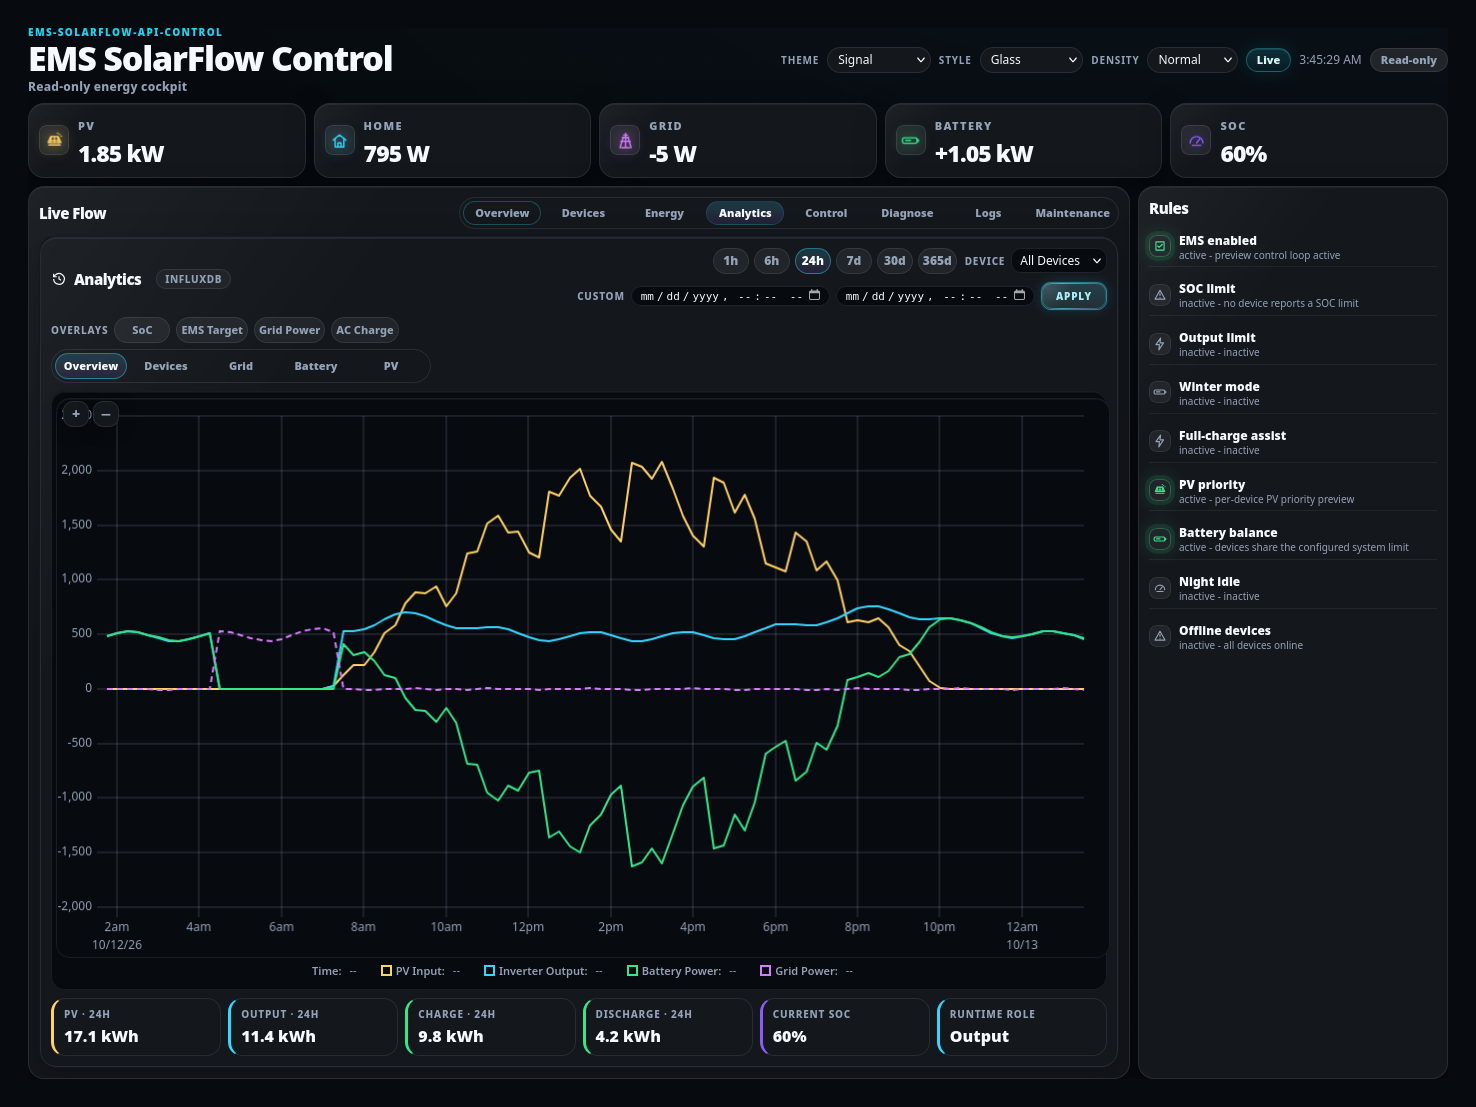
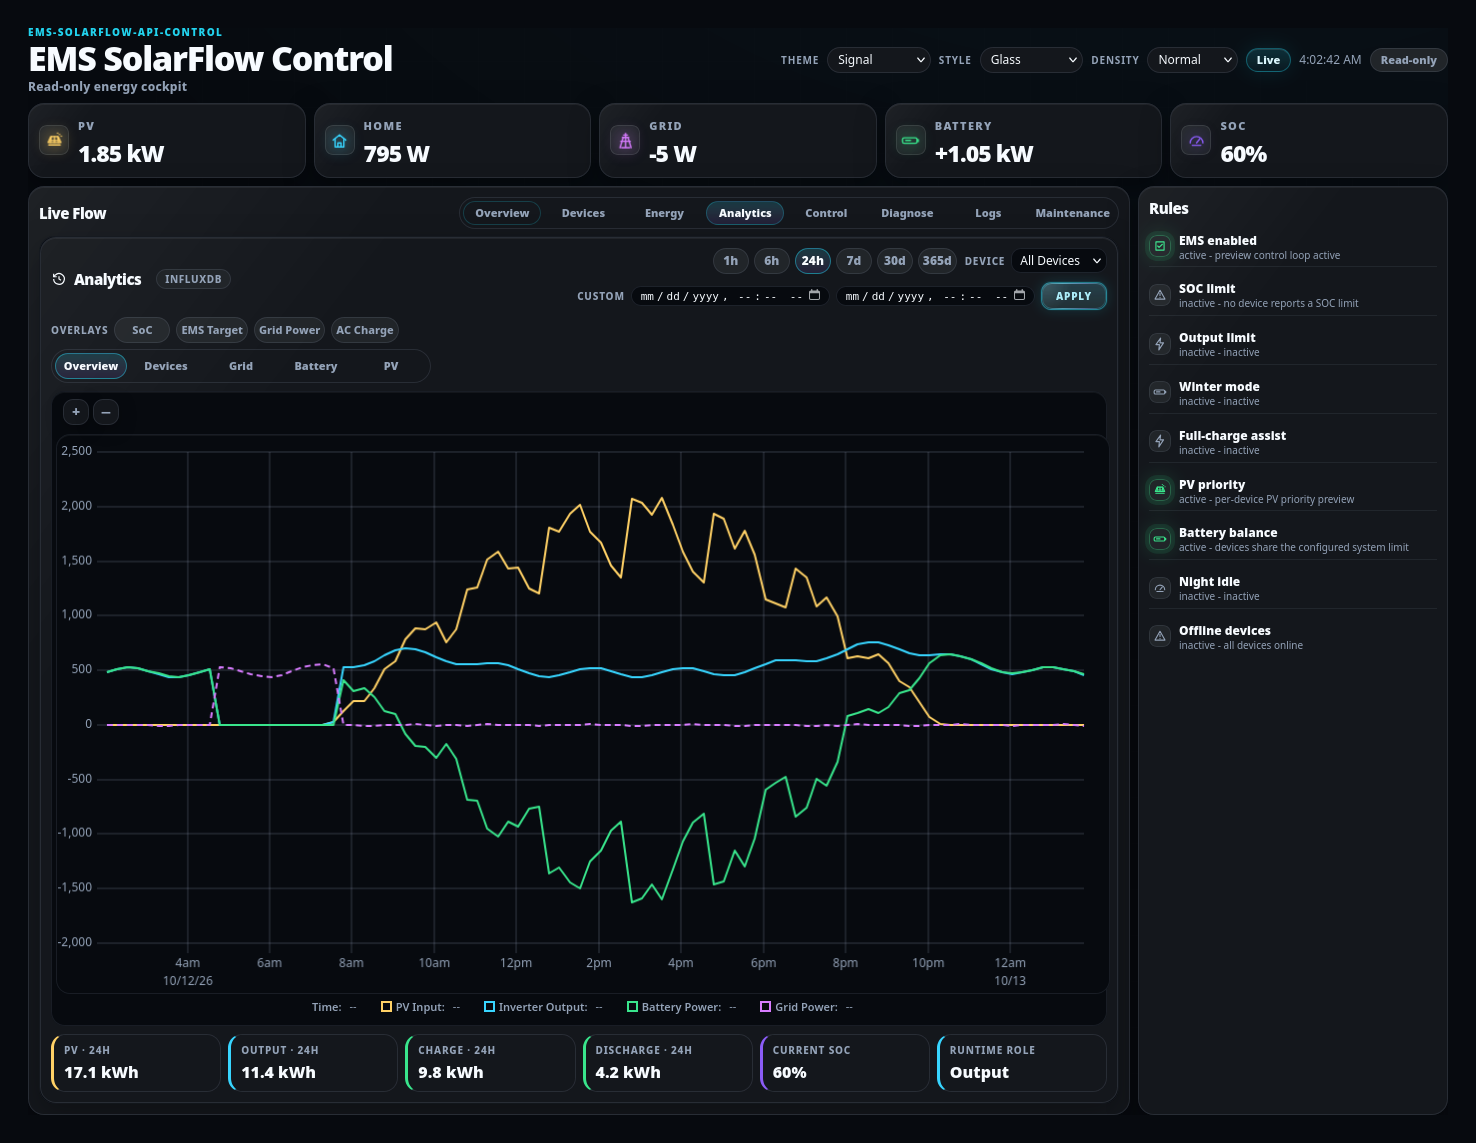
fix(dashboard): the chart zoom buttons sit on a strip above the plot instead of over its top axis label
The + and - buttons are laid over the chart's top-left corner, and the
chart began its plot 6 px below its own edge, so uPlot painted the y
axis's highest label (2,500 in the preview) under the buttons. The
History chart carries the same buttons in the same place.

The chart now keeps a strip of one control height plus a density-scaled
gap above the plot, and the buttons sit in it, their offset scaled by
density like every other distance. The plot, its axis and its labels
start below the buttons whatever the data puts at the top of the axis.

The new specs in chart-zoom.spec.ts compare the buttons' box with the
axis gutter at the top label's height, for both charts and for the
zoomed Analytics chart with Back to live shown. Without this change
the two Analytics cases fail in Chromium and Firefox with the buttons
over "2,500". The dashboard reference says where the buttons sit, and
the two Analytics screenshots are re-taken.

diff --git a/tests/e2e-dashboard/chart-zoom.spec.ts b/tests/e2e-dashboard/chart-zoom.spec.ts
@@ -38,6 +38,50 @@ function span(window: Window) {
   return window.max - window.min;
 }
 
+type Box = { x: number; y: number; width: number; height: number };
+type AxisChart = {
+  axes: { scale: string; font: [string, number, number]; _splits: number[]; _values: (string | null)[] }[];
+  over: HTMLElement;
+  root: HTMLElement;
+  valToPos(value: number, scale: string): number;
+};
+
+/**
+ * The zoom controls' box and the box of the y axis's highest label.
+ *
+ * uPlot paints its axis on the canvas, so the label has no element of its own:
+ * its box is the axis gutter, from the canvas's left edge to the plot's, one
+ * line of the axis font high around the label's tick. That is wider than the
+ * text, so controls clear of it are clear of the label.
+ */
+async function zoomControlsAndTopAxisLabel(
+  page: Page,
+  chart: Chart
+): Promise<{ controls: Box; label: Box; text: string }> {
+  return page.evaluate((which) => {
+    const u = state[which as Chart].chart as unknown as AxisChart;
+    const axis = u.axes[1];
+    const shown = axis._splits
+      .map((split, index) => ({ split, text: axis._values[index] }))
+      .filter((tick): tick is { split: number; text: string } => tick.text != null);
+    const top = shown.reduce((high, tick) => (tick.split > high.split ? tick : high));
+    const plot = u.over.getBoundingClientRect();
+    const canvas = u.root.querySelector("canvas")!.getBoundingClientRect();
+    const centre = plot.top + u.valToPos(top.split, axis.scale);
+    const fontSize = axis.font[2];
+    const controls = document.getElementById(`${which}ZoomIn`)!.parentElement!.getBoundingClientRect();
+    return {
+      controls: { x: controls.x, y: controls.y, width: controls.width, height: controls.height },
+      label: { x: canvas.left, y: centre - fontSize / 2, width: plot.left - canvas.left, height: fontSize },
+      text: top.text,
+    };
+  }, chart);
+}
+
+function overlap(a: Box, b: Box) {
+  return a.x < b.x + b.width && b.x < a.x + a.width && a.y < b.y + b.height && b.y < a.y + a.height;
+}
+
 // Open a preview view and wait until its chart has actually been built -- the
 // canvas being in the DOM is not the same thing as uPlot owning a scale.
 async function openChart(page: Page, view: string, chart: Chart) {
@@ -187,5 +231,35 @@ test.describe("history chart zoom", () => {
     await expect(page.locator("#historyBackToLive")).toBeHidden();
     expect(await page.evaluate(() => state.history.zoom)).toBeNull();
     expect(await page.evaluate(() => historyShouldAutoRefresh())).toBe(true);
+  });
+});
+
+test.describe("chart zoom controls", () => {
+  for (const [view, chart] of [
+    ["analytics", "analytics"],
+    ["aggregated", "history"],
+  ] as const) {
+    test(`the ${chart} zoom buttons leave the y axis's top label uncovered`, async ({ page }) => {
+      await openChart(page, view, chart);
+      await page.locator(`#${chart}Chart`).scrollIntoViewIfNeeded();
+
+      const live = await zoomControlsAndTopAxisLabel(page, chart);
+      expect(live.text).not.toBe("");
+      expect(overlap(live.controls, live.label), JSON.stringify(live)).toBe(false);
+    });
+  }
+
+  test("Back to live joins the analytics zoom buttons without covering the label", async ({
+    page,
+  }) => {
+    await openChart(page, "analytics", "analytics");
+    await Promise.all([
+      page.waitForResponse((response) => response.url().includes("start=")),
+      page.locator("#analyticsZoomIn").click(),
+    ]);
+    await expect(page.locator("#analyticsBackToLive")).toBeVisible();
+
+    const zoomed = await zoomControlsAndTopAxisLabel(page, "analytics");
+    expect(overlap(zoomed.controls, zoomed.label), JSON.stringify(zoomed)).toBe(false);
   });
 });

diff --git a/dashboard/static/styles.css b/dashboard/static/styles.css
@@ -2454,11 +2454,11 @@ canvas { width: 100%; min-height: 94px; border: var(--o-border) solid color-mix(
 /* The chart's own corner: the wheel does the zooming, these say that it can be
    done and reach it without one. Back to live joins them when there is a zoom
    to leave, so one corner holds the whole of it. */
-.analytics-zoom-controls { position: absolute; top: 10px; left: 12px; z-index: 3; display: flex; align-items: center; gap: calc(4px * var(--d)); }
+.analytics-zoom-controls { position: absolute; top: calc(8px * var(--d)); left: calc(12px * var(--d)); z-index: 3; display: flex; align-items: center; gap: calc(4px * var(--d)); }
 .analytics-zoom-button { display: inline-flex; align-items: center; justify-content: center; width: var(--o-control-height); height: var(--o-control-height); padding: 0; border: 1px solid var(--border); border-radius: var(--o-control-radius); background: var(--tone-card); color: var(--muted); font: inherit; font-size: 14px; font-weight: 850; line-height: 1; cursor: pointer; box-shadow: 0 4px 14px rgba(0,0,0,.25); transition: transform .16s ease, border-color .16s ease, color .16s ease; }
 .analytics-zoom-button:hover:not(:disabled) { transform: translateY(-1px); border-color: var(--border-strong); color: var(--text); }
 .analytics-zoom-button:disabled { opacity: .45; cursor: default; }
-.analytics-chart { width: 100%; min-height: 280px; border: var(--o-border) solid color-mix(in srgb, var(--muted) 13%, transparent); border-radius: var(--o-card-radius); background: var(--o-layers, none), var(--o-fill, var(--tone-well)); box-shadow: var(--o-shadow, inset 0 1px 0 color-mix(in srgb, var(--veil) 5%, transparent)); padding: calc(6px * var(--d)) calc(4px * var(--d)); border-left-width: calc(var(--o-border) + var(--o-rail)); border-bottom-width: max(var(--o-border), var(--o-divider)); }
+.analytics-chart { width: 100%; min-height: 280px; border: var(--o-border) solid color-mix(in srgb, var(--muted) 13%, transparent); border-radius: var(--o-card-radius); background: var(--o-layers, none), var(--o-fill, var(--tone-well)); box-shadow: var(--o-shadow, inset 0 1px 0 color-mix(in srgb, var(--veil) 5%, transparent)); padding: calc(var(--o-control-height) + 16px * var(--d)) calc(4px * var(--d)) calc(6px * var(--d)); border-left-width: calc(var(--o-border) + var(--o-rail)); border-bottom-width: max(var(--o-border), var(--o-divider)); }
 .analytics-chart .u-legend { font-size: 11px; color: var(--muted); }
 
 /* uPlot ships its drag selection as `rgba(0,0,0,0.07)`, which assumes a light

diff --git a/docs/developer/review-coverage.md b/docs/developer/review-coverage.md
@@ -326,6 +326,7 @@ Review rounds: twenty-four, each on a fixed commit by a reviewer that had not wr
 | FR12 | low | The Analytics and History charts ignored a palette switch: a canvas cannot read a custom property, the series, axis and grid colours were resolved once when a chart was built, and a refresh reused the chart with its old colours until its structure changed or the page was reloaded; the grid was a white literal (`rgba(255,255,255,0.06)`) on every palette | fix(dashboard): the charts take the palette's colours, and a palette switch repaints them |
 | FR18 | low | The Control view showed every device's Adjustments / Limits result as blocked: its tone read `capability_reason`, which the EMS always sets (`normal`, or the firmware signals behind the capability check such as `pv_evidence,ac_evidence`), so a device nothing limited was red (found in review 4 while fixing FR9/FR12; already on main) | fix(dashboard): a device's limits stage shows blocked only when the EMS says it cannot export |
 | FR19 | low | The sentence above a Control device card escaped the device's name twice: `controlDeviceCard` handed the reason note the name it had already escaped, and the note escapes the whole sentence, so a device called `Garage & Carport` read `Garage &amp; Carport` there (found in review 4 while fixing FR9/FR12; already on main) | fix(dashboard): the sentence above a Control device card escapes the device's name once |
+| FR20 | low | The Analytics chart's `+` and `−` zoom buttons covered the y axis's top label (`2,500` in the preview): they are laid over the chart's top-left corner, and the plot began 6 px below the chart's edge, so uPlot painted that label under them. The History chart carries the same buttons (found in review 4 while fixing FR9/FR12; already on main) | fix(dashboard): the chart zoom buttons sit on a strip above the plot instead of over its top axis label |
 
 ## Decisions
 

diff --git a/docs/dashboard.md b/docs/dashboard.md
@@ -85,8 +85,9 @@ History panel — are zoomed the same three ways:
 - **Mouse wheel** over the plot. It zooms around the pointer, so whatever is
   under it stays under it, and it never scrolls the page while the pointer is
   over a chart.
-- The **`+` and `−` buttons** in the chart's top-left corner. They zoom around
-  the middle of the visible window.
+- The **`+` and `−` buttons** in the chart's top-left corner, on a strip above
+  the plot so that they cover none of its axis labels. They zoom around the
+  middle of the visible window.
 
 `↺ Back to live` appears in the same corner as soon as a chart is zoomed, and
 it is the reset: it returns the chart to the live window and resumes the 30s
